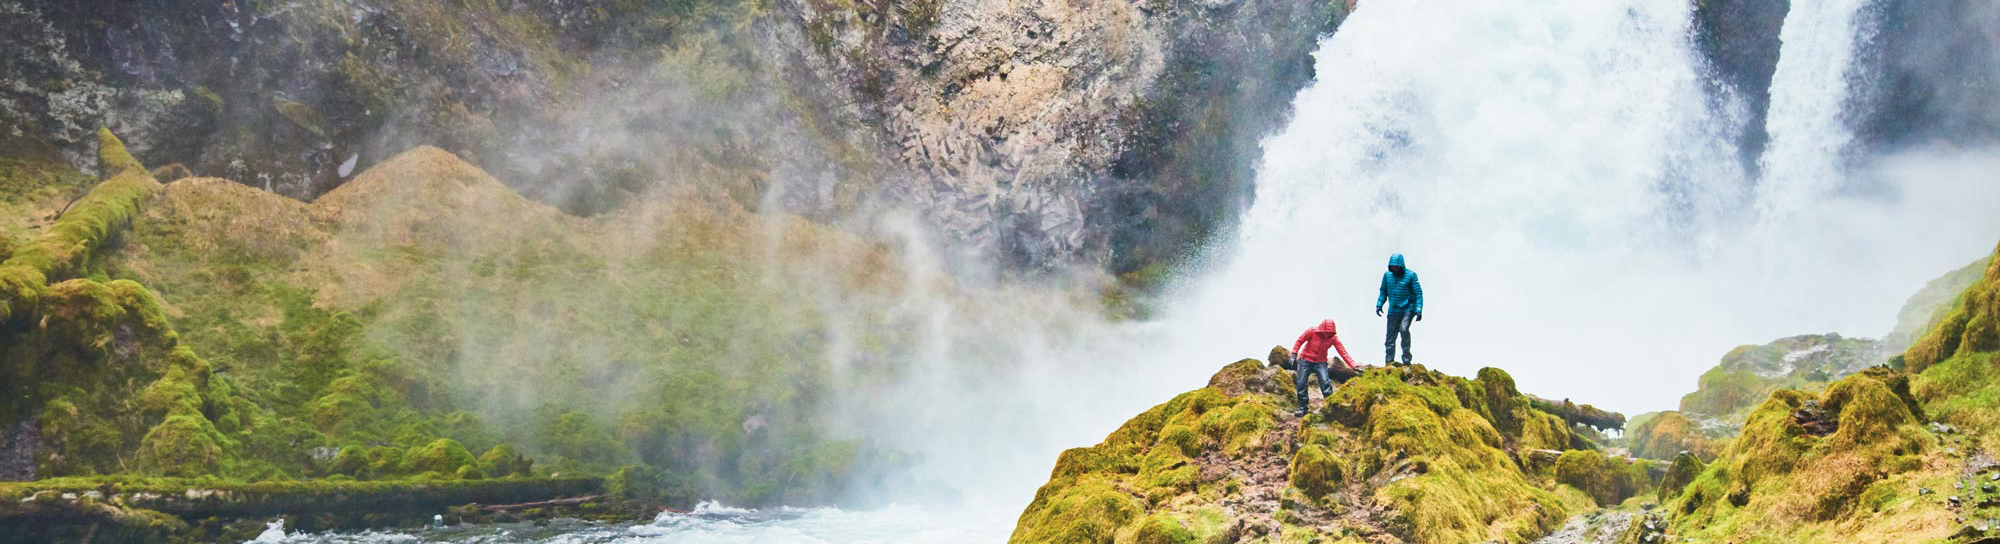
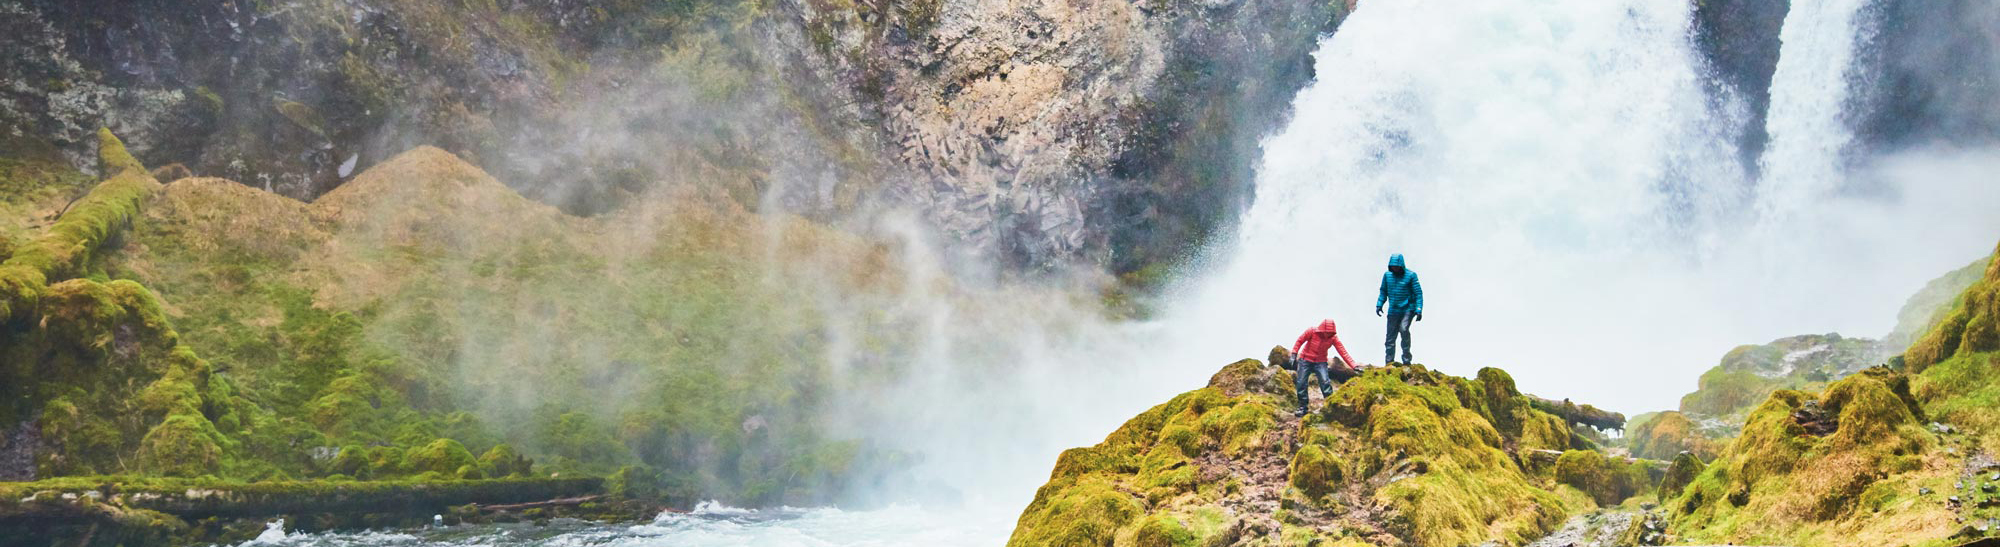
updated

diff --git a/index.html b/index.html
@@ -119,10 +119,10 @@
 			</nav>
 		</div>
 		<div class="keyvisual">
-			<div><img src="images/Columbia_key1.jpg" title="HIKING GEAR GUIDE"></div>
-			<div><img src="images/Columbia_key2.jpg" title="WHEREVER YOU WANDER"></div>
-			<div><img src="images/Columbia_key3.jpg" title="FISHING IS OUR HERITAGE"></div>
-			<div><img src="images/Columbia_key4.jpg" title="SKI & SNOW GEAR GUIDE"></div>
+			<div><img src="images/columbia_key1.jpg" title="HIKING GEAR GUIDE"></div>
+			<div><img src="images/columbia_key2.jpg" title="WHEREVER YOU WANDER"></div>
+			<div><img src="images/columbia_key3.jpg" title="FISHING IS OUR HERITAGE"></div>
+			<div><img src="images/columbia_key4.jpg" title="SKI & SNOW GEAR GUIDE"></div>
 		</div>
 	</header>
 
